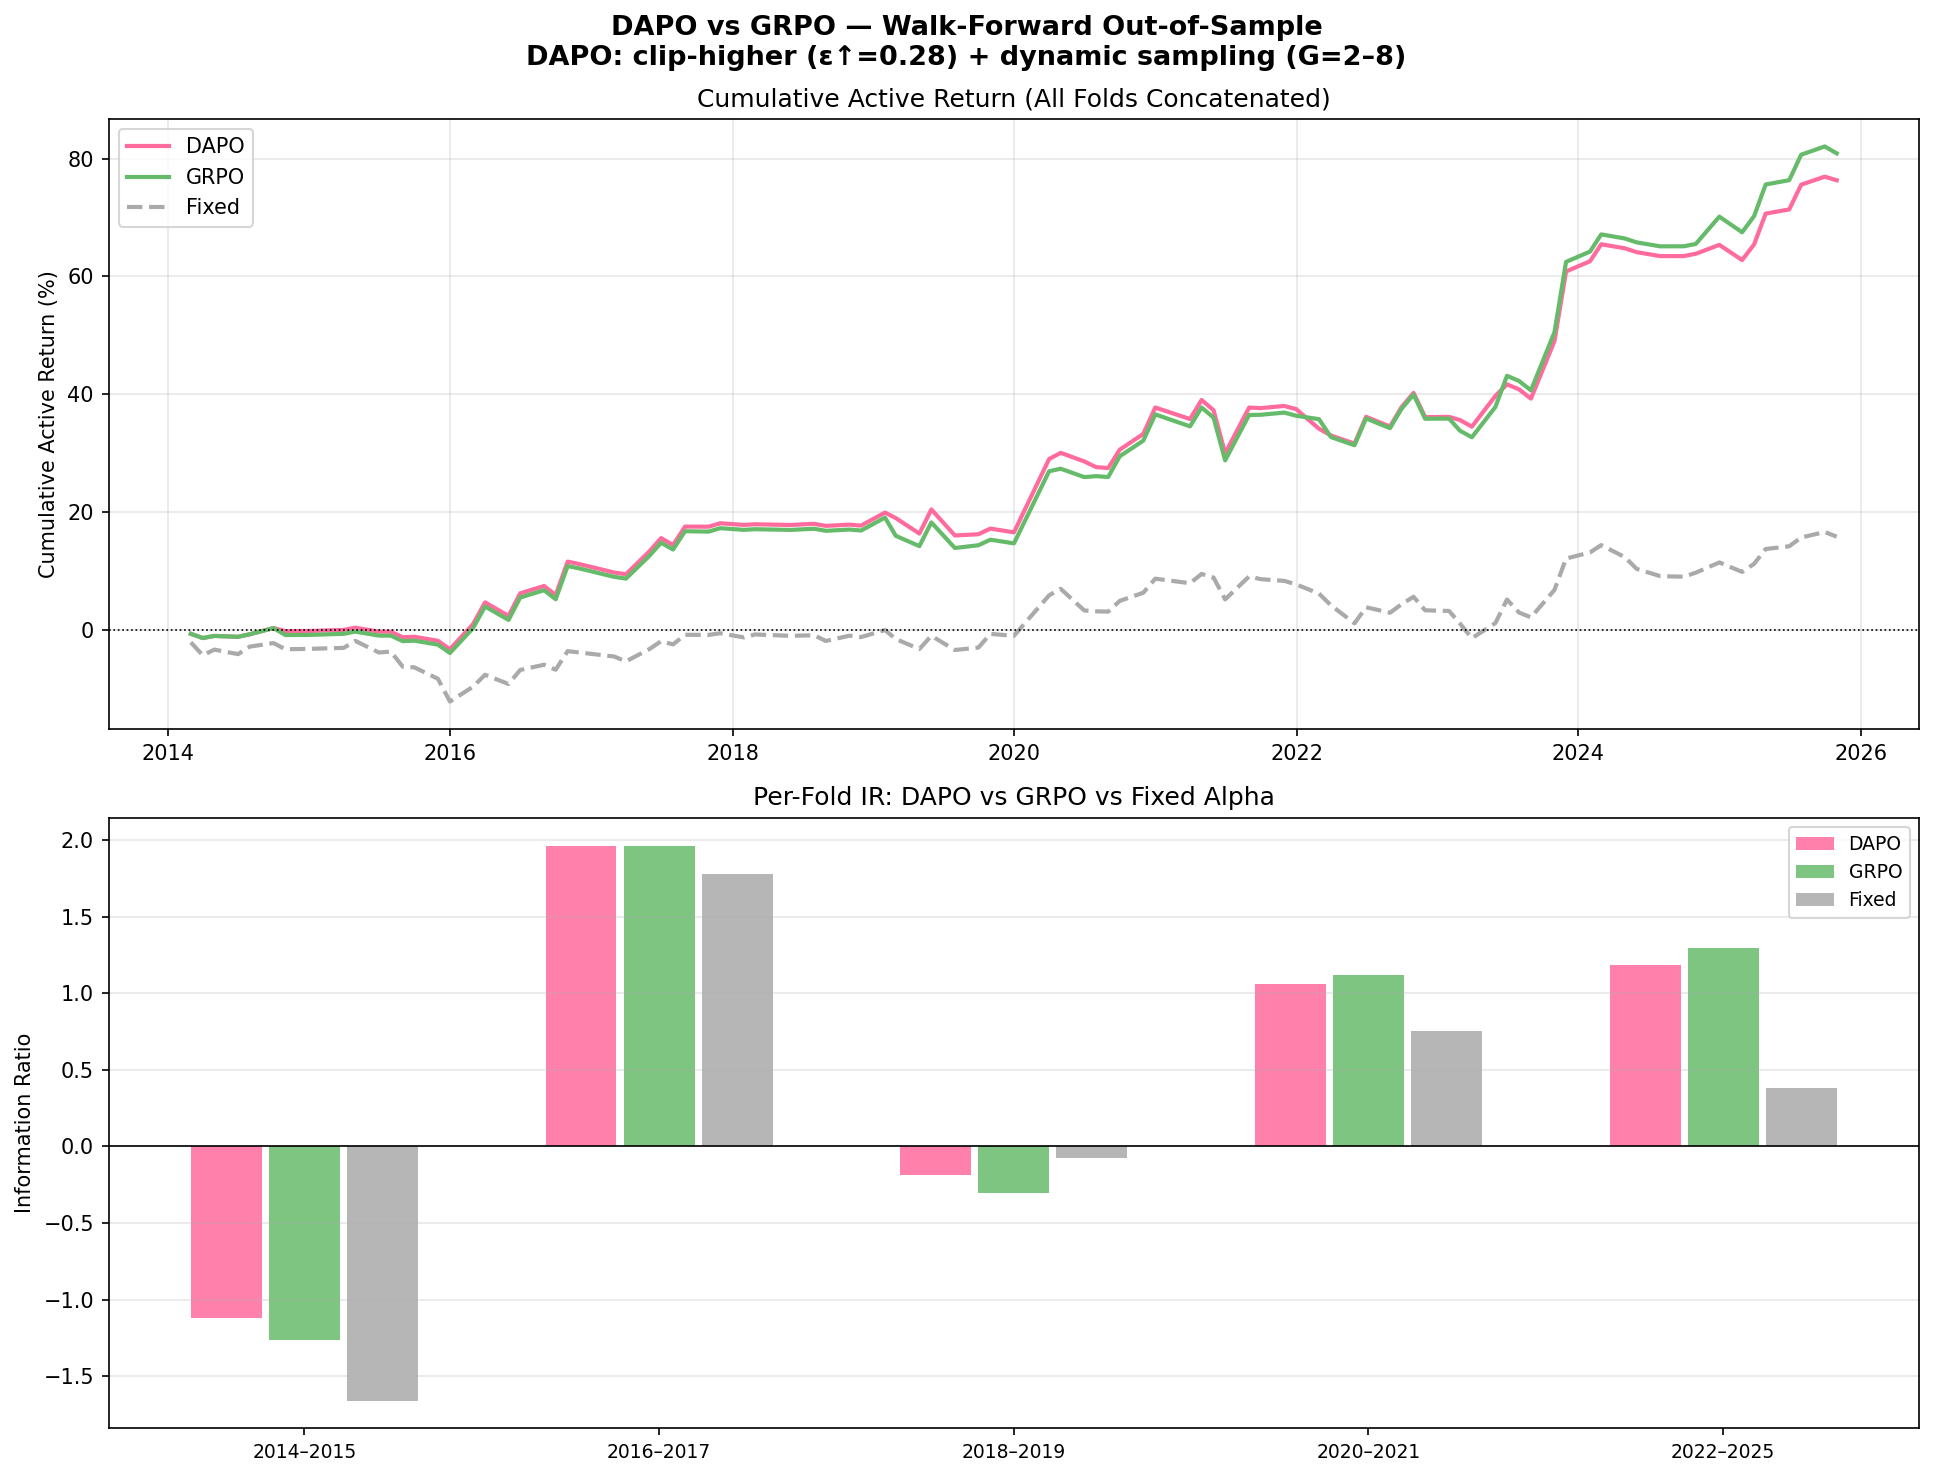
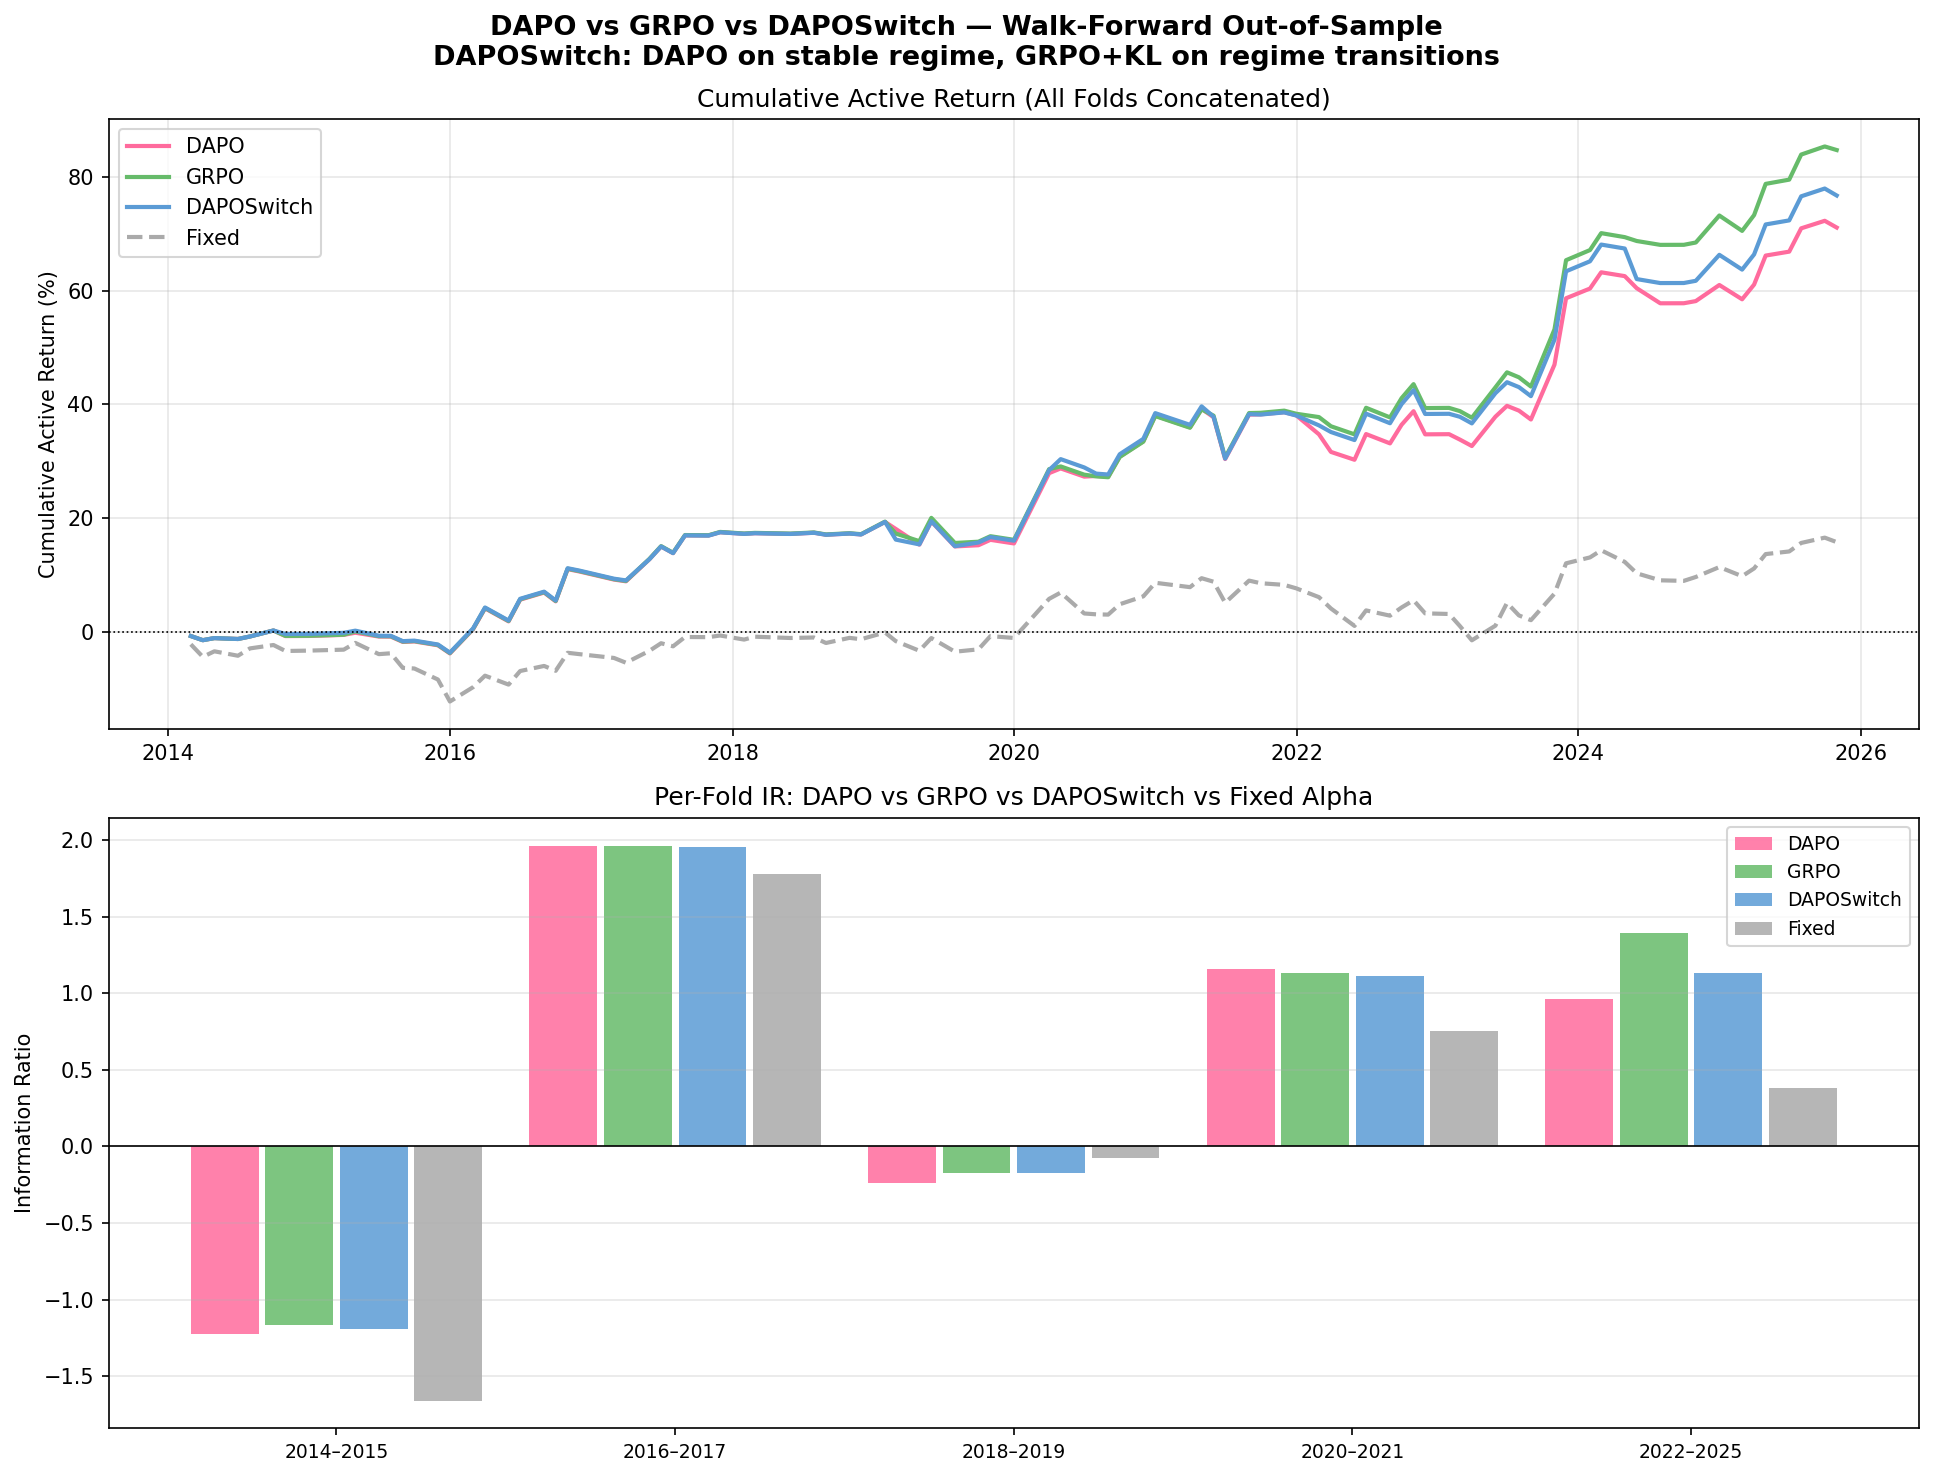
Notes and DAPO

diff --git a/Notes/RL_REPORT.md b/Notes/RL_REPORT.md
@@ -1,0 +1,341 @@
+# RL Portfolio Agent — Full Technical Report
+
+Complete explanation of every variable, design choice, and algorithm used in the
+reinforcement learning layer (`5b`, `5c`, `5d`, `5e`).
+
+---
+
+## 1. What Problem Are We Solving?
+
+Every month we have a ranked list of ~500 S&P 500 stocks from our ML model (CS-Transformer
+or LightGBM). We want to build a portfolio that beats the S&P 500 index.
+
+The ML model answers **"which stocks to favour"** — but not **"how aggressively to tilt"**.
+Tilting too hard increases tracking error and drawdown. Tilting too softly wastes the signal.
+
+The RL agent answers the second question: given the current market environment, what is the
+optimal tilt size α this month?
+
+---
+
+## 2. Portfolio Construction
+
+### The Tilt Mechanism
+
+Each stock `i` has an S&P 500 benchmark weight `w_SPX_i` (proportional to market cap).
+We adjust these weights by ±α based on the ML model's ranking:
+
+```
+Top 100 stocks:    portfolio_weight_i = w_SPX_i + α   (overweight)
+Middle ~300:       portfolio_weight_i = w_SPX_i        (unchanged)
+Bottom 100 stocks: portfolio_weight_i = w_SPX_i − α   (underweight)
+```
+
+Weights are clipped at 0 (no shorting) and renormalised to sum to 1.
+
+**α (alpha)** is the single number the RL agent controls each month.
+- Range: **[0.002, 0.05]** — 0.2% to 5% tilt per stock
+- Low α → stay close to index, low tracking error, low upside
+- High α → bigger active bets, higher upside but also higher risk
+
+**Active return** = our portfolio return − S&P 500 return.
+The agent's goal is to maximise risk-adjusted active return (Information Ratio).
+
+---
+
+## 3. The State Vector — What the Agent "Sees"
+
+Each month the agent observes a 6-dimensional state vector before deciding α.
+All features are z-scored using training data statistics (mean subtracted, divided by std),
+clipped to [−5, +5] to remove outliers.
+
+| # | Feature | Raw computation | What it tells the agent |
+|---|---------|----------------|------------------------|
+| 0 | `signal_strength` | Mean of `|z-scored ML scores|` across all stocks | How strong/clear the model's ranking is this month. High = confident ranking, tilting is worth it. Low = all stocks look similar, tilting is risky. |
+| 1 | `signal_dispersion` | Std dev of z-scored ML scores | How spread out the scores are. High dispersion = big gap between top and bottom stocks, strong long-short opportunity. |
+| 2 | `bench_vol` | Rolling 3-month std dev of S&P 500 monthly returns × √12 (annualised) | Market volatility regime. High = volatile market, tilting tends to generate unpredictable outcomes. |
+| 3 | `recent_active_ret` | 3-month rolling mean of active returns using fixed α=1% | Has the factor signal been working recently? Positive = strategy has momentum, keep tilting. Negative = signal has been failing, reduce tilt. |
+| 4 | `regime` | 1 if `bench_vol > rolling median bench_vol`, else 0 | Binary risk-on/risk-off flag. **Not z-scored** — stays as 0.0 or 1.0. Used by DAPOSwitch to detect regime transitions. |
+| 5 | `rolling_te` | Rolling 3-month std dev of active returns × √12 (annualised) | Recent tracking error. High TE = strategy has been making large active bets (for better or worse). |
+
+**Why z-score?** Raw values are not comparable across time. Benchmark vol of 15% in 2015 means
+something different to 15% in 2020 (COVID). Z-scoring makes the same number mean the same
+thing regardless of when you're looking at it. Exception: `regime` is a binary flag — z-scoring
+would destroy its meaning.
+
+---
+
+## 4. The Action
+
+**Output:** a single scalar α ∈ [0.002, 0.05]
+
+The neural network outputs a value in (−∞, +∞). We squash it into [α_min, α_max] using tanh:
+
+```
+raw_output ~ Normal(μ(state), σ(state))   ← stochastic during training
+y = tanh(raw_output)                        ← squash to (−1, +1)
+α = α_min + (y + 1) / 2 × (α_max − α_min) ← scale to [0.002, 0.05]
+```
+
+During evaluation (live deployment), we use the deterministic mean: `y = tanh(μ(state))`.
+
+---
+
+## 5. The Reward
+
+```python
+reward = active_ret × 12
+```
+
+`active_ret` is the monthly active return (portfolio return minus benchmark return) from
+simulating the chosen α for that month. Multiplying by 12 annualises it — the agent thinks
+in terms of annual active return.
+
+**Why not penalise tracking error directly?** The KL penalty (in GRPO) and the clip
+mechanism (in DAPO) act as implicit regularisers on how much the policy can change per
+update. Tracking error is captured indirectly — if the agent tilts aggressively and
+the signal fails, it gets a negative reward, and it learns to reduce α.
+
+---
+
+## 6. The Neural Network (Policy)
+
+All three algorithms (GRPO, DAPO, DAPOSwitch) use the same neural network architecture:
+
+```
+GaussianActor:
+  Input:  state vector (6 numbers)
+  → Linear(6, 64) → ReLU
+  → Linear(64, 64) → ReLU
+  → Linear(64, 1)  ← mean head (μ)
+     and separately:
+  → Linear(64, 1)  ← log-std head (log σ), clamped to [−10, +2]
+  Output: Normal distribution parameterised by (μ, σ) over action space
+```
+
+64 hidden units per layer. Small by ML standards — appropriate because we only have
+~50–100 training months per fold, so a larger network would overfit badly.
+
+---
+
+## 7. Walk-Forward Structure — No Data Leakage
+
+5 folds, each using an expanding training window:
+
+```
+Fold 1: Train 2010–2013 → Test 2014–2015
+Fold 2: Train 2010–2015 → Test 2016–2017
+Fold 3: Train 2010–2017 → Test 2018–2019
+Fold 4: Train 2010–2019 → Test 2020–2021
+Fold 5: Train 2010–2021 → Test 2022–2025
+```
+
+For each fold:
+1. Factor IC weights are computed from training data only
+2. Episode state features (z-score normalisation params) are computed from training data only
+3. The RL agent is trained from scratch on training episodes
+4. The agent is evaluated on test episodes — never seen during training
+
+All 95 test months concatenated give the out-of-sample IR.
+
+---
+
+## 8. Episode Building (`build_episodes`)
+
+Converts the raw panel data into a sequence of `(state, simulation_function)` pairs.
+
+**For each month `t` in the dataset:**
+1. Z-score the ML model scores across all stocks in that month
+2. Compute `signal_strength` = mean(|z-scores|), `signal_dispersion` = std(z-scores)
+3. Run a reference simulation with α=0.01 to get `bench_ret` and `active_ret_ref`
+4. Compute rolling features (`bench_vol`, `rolling_te`, `recent_active_ret`) using past months
+5. Determine `regime` (1 if bench_vol > rolling median, 0 otherwise)
+6. Z-score all features except `regime` using training statistics
+7. Store a reference to the raw scores + benchmark weights for the simulation function
+
+The "simulation function" is not called until the agent chooses its α — this is what makes
+it reinforcement learning: the agent's action determines the outcome it observes.
+
+---
+
+## 9. GRPO — Group Relative Policy Optimisation
+
+**Origin:** DeepSeek-R1 (2025). Designed for LLMs, adapted here for portfolio tilting.
+
+**Key idea:** Instead of estimating a "value function" (how good is this state in general),
+sample multiple actions from the same state, rank them by reward, and use the relative
+ranking as the advantage signal.
+
+### Training loop (per epoch, per month):
+
+```
+1. Sample G=4 candidate alphas: α₁, α₂, α₃, α₄  ← stochastic draws from policy
+2. Simulate each: r₁, r₂, r₃, r₄  ← run portfolio with each α
+3. Compute advantages (group-relative):
+      Aᵢ = (rᵢ − mean(r)) / std(r)
+   → positive = above-average alpha, push policy toward it
+   → negative = below-average alpha, push policy away
+4. Policy gradient loss:
+      L_PG = −mean(log_prob(αᵢ) × Aᵢ)
+   This is REINFORCE: increase probability of actions that beat the group mean.
+5. KL penalty:
+      KL = KL(current_policy || reference_policy)
+   The reference policy is a frozen copy from the start of training.
+   KL term prevents the policy from drifting too far too fast.
+6. Total loss = L_PG + β_KL × KL   (β_KL = 0.01)
+```
+
+**Why no value function?** Estimating V(s) requires many samples per state. With only
+~50–100 training months (states), a learned value function would overfit — the noise in
+V̂(s) would be larger than the signal. Group relative advantage bypasses this entirely.
+
+---
+
+## 10. DAPO — Dynamic Sampling Policy Optimisation
+
+**Origin:** ByteDance/Seed (2025). Three improvements over GRPO.
+
+### Improvement 1: Clip-Higher (asymmetric clipping)
+
+Standard PPO (and GRPO's implicit update) clips how much the policy can change per step.
+DAPO uses different clip bounds depending on whether the advantage is positive or negative:
+
+```
+For positive advantage (good action):   clip ratio to [1 − ε_low, 1 + ε_high]  = [0.80, 1.28]
+For negative advantage (bad action):    clip ratio to [1 − ε_low, 1 + ε_low]   = [0.80, 1.20]
+```
+
+Where `ratio = π_new(α) / π_old(α)` — how much the probability of taking action α
+changed after the update.
+
+**Effect:** The policy is allowed to move more aggressively toward rewarding actions
+(ratio up to 1.28) but uses standard conservatism for avoiding bad actions (ratio capped
+at 1.20). Asymmetric because upside exploration matters more than downside avoidance in
+a world with clip protection.
+
+### Improvement 2: Dynamic G (adaptive candidate count)
+
+```
+Start with G_INIT=4 candidates → compute variance of rewards
+If var(rewards) > 0.05 (hard/uncertain state):
+    sample 4 more candidates (total G_MAX=8)
+Else:
+    keep G=4 (easy/certain state)
+```
+
+Hard states = months where outcomes are volatile (e.g. rate hike month — some alphas
+work well, others blow up). More candidates → better estimate of the advantage distribution.
+Easy states = outcomes are predictable regardless of α choice, extra samples add noise.
+
+### Improvement 3: No KL Penalty
+
+DAPO removes the KL term entirely. The clip mechanism provides sufficient stability.
+Removing KL allows the policy to drift further from its initialisation, which can be
+helpful when the optimal policy is far from the initial random policy.
+
+---
+
+## 11. DAPOSwitch — Regime-Aware Algorithm Selection
+
+**New (29 Mar 2026).** Combines DAPO and GRPO depending on market regime stability.
+
+### Regime detection:
+
+```python
+regime_t = 1  if bench_vol_t > rolling_median(bench_vol)  else 0
+is_transition = (regime_t != regime_{t-1})
+```
+
+A month is a "transition" if the binary regime flag changed from the previous month.
+Roughly 10–15% of months are transitions in typical market data.
+
+### Update routing:
+
+```
+Stable month (same regime as last month):
+    → DAPO update: clip-higher, no KL, G=4–8
+    Rationale: regime is established, signal is predictable, explore more freely.
+
+Transition month (regime just changed):
+    → GRPO update: REINFORCE + KL, G=4
+    Rationale: market environment just shifted, old alpha intuitions may be wrong.
+               KL anchors the policy to its last-known-good behaviour until
+               the agent observes enough new data to update confidently.
+```
+
+---
+
+## 12. Results Summary (Walk-Forward, 95 OOS months, 2014–2025)
+
+| Algorithm | Avg IR | Fold IRs | Beats Fixed |
+|-----------|--------|----------|-------------|
+| **GRPO** | **0.629** | −1.168, 1.961, −0.173, 1.132, 1.394 | 4/5 |
+| DAPOSwitch | 0.566 | −1.191, 1.954, −0.176, 1.114, 1.128 | 4/5 |
+| DAPO | 0.525 | −1.222, 1.963, −0.238, 1.156, 0.965 | 4/5 |
+| Fixed α=1% | 0.235 | −1.659, 1.778, −0.073, 0.751, 0.380 | — |
+
+All three RL algorithms beat fixed alpha by 2× or more in average IR.
+
+**Bad folds (2014–15 and 2018–19):** All algorithms produce negative IR. These periods
+correspond to choppy, directionless markets where the factor signal had low IC — no RL
+algorithm can generate alpha from a weak signal. The RL advantage is that it sometimes
+reduces α during these periods (lower max drawdown), but the signal itself is the
+binding constraint.
+
+---
+
+## 13. Key Design Parameters
+
+| Parameter | Value | Meaning |
+|-----------|-------|---------|
+| `ALPHA_MIN` | 0.002 | Minimum tilt per stock (0.2%) |
+| `ALPHA_MAX` | 0.050 | Maximum tilt per stock (5.0%) |
+| `FIXED_ALPHA` | 0.010 | Baseline fixed tilt for comparison |
+| `HIDDEN_DIM` | 64 | MLP hidden layer width |
+| `GRPO_G` | 4 | Candidate alphas per state (GRPO) |
+| `GRPO_KL_BETA` | 0.01 | KL penalty weight |
+| `GRPO_EPOCHS` | 400 | Training epochs per fold |
+| `DAPO_EPS_LOW` | 0.20 | Clip lower bound (both directions) |
+| `DAPO_EPS_HIGH` | 0.28 | Clip upper bound (positive advantage only) |
+| `DAPO_G_INIT` | 4 | Initial candidates before variance check |
+| `DAPO_G_MAX` | 8 | Max candidates for hard states |
+| `DAPO_VAR_THRESH` | 0.05 | Reward variance threshold to trigger G extension |
+
+---
+
+## 14. What Each File Does
+
+| File | Role |
+|------|------|
+| `5a_rl_factor_agent.py` | Layer 1: RL agent that adapts *which factors to trust* each month (maximises IC/ICIR) |
+| `5b_rl_portfolio_agent.py` | Layer 2: SAC agent for adaptive alpha (original implementation) |
+| `5c_walk_forward.py` | Walk-forward harness for SAC — establishes 5-fold evaluation structure |
+| `5d_algorithm_comparison.py` | SAC vs PPO vs GRPO comparison |
+| `5e_dapo_agent.py` | DAPO vs GRPO vs DAPOSwitch comparison (current main RL file) |
+
+---
+
+## 15. Open Questions / Research Directions
+
+1. **Why does GRPO beat DAPO with fair G?**
+   The KL penalty may actually be *helping* in our small-data regime (~50 training months)
+   by preventing the policy from overfitting to any single fold's training distribution.
+   DAPO without KL has more freedom to drift, which helps in LLMs (millions of training
+   steps) but may hurt here.
+
+2. **DAPOSwitch improvement direction:**
+   Currently uses a simple vol-threshold regime. Replacing with the HMM regime labels
+   from `4c_regime_engine.py` would give cleaner transition signals. Alternatively,
+   a learned regime detector (separate small network trained on macro features) could
+   identify transitions earlier.
+
+3. **Reward function:**
+   Current reward = `active_ret × 12`. A Sharpe-shaped reward
+   (`active_ret / rolling_te`) would explicitly incentivise risk-adjusted alpha rather
+   than raw alpha. Worth testing — may reduce tracking error in stress folds.
+
+4. **Connecting Layer 1 and Layer 2:**
+   The Layer 1 agent's recent IC (how well the factor signal is working) should feed
+   directly into Layer 2's state vector. A high recent IC from Layer 1 should cause
+   Layer 2 to tilt more aggressively (high-quality signal → exploit it). Currently
+   they are trained and evaluated independently.

diff --git a/Notes/STRATEGY.md b/Notes/STRATEGY.md
@@ -218,15 +218,16 @@ DAPO is the next evolution of GRPO with three improvements:
 2. **Dynamic sampling**: Hard market states (high reward variance) get up to 8 candidate alphas; easy states get 2
 3. **No KL penalty**: Clip-higher replaces the KL stability mechanism
 
-**Walk-Forward Results (same 5-fold structure):**
+**Walk-Forward Results (fair comparison: G_MIN=4 for all, 29 Mar 2026):**
 
 | Algorithm | Avg IR | Fold IRs | Beats Fixed |
 |-----------|--------|----------|-------------|
-| **DAPO** | **0.580** | −1.121, 1.963, −0.188, 1.062, 1.181 | 4/5 |
-| GRPO | 0.562 | −1.262, 1.958, −0.302, 1.119, 1.297 | 4/5 |
+| **GRPO** | **0.629** | −1.168, 1.961, −0.173, 1.132, 1.394 | 4/5 |
+| DAPOSwitch | 0.566 | −1.191, 1.954, −0.176, 1.114, 1.128 | 4/5 |
+| DAPO | 0.525 | −1.222, 1.963, −0.238, 1.156, 0.965 | 4/5 |
 | Fixed α=1% | 0.235 | −1.659, 1.778, −0.073, 0.751, 0.380 | — |
 
-DAPO outperforms GRPO in the two stress folds (2014–15, 2018–19) via lower drawdown and tracking error. **Known caveat:** the current G design is not perfectly fair — see IMPROVEMENTS.md #12–13 for details and the planned ablation fix.
+**Key finding:** With a fair G comparison, GRPO (0.629) beats DAPO (0.525). The previous DAPO "edge" (0.580 vs 0.562) was an artifact of the asymmetric sampling budget — DAPO's G_MIN=2 in easy states was accidentally generating fewer noisy gradient updates, not genuine algorithmic superiority. DAPOSwitch (0.566) sits between the two, consistent with its hybrid design.
 
 **Layer 2 State Vector (9 features)**
 
